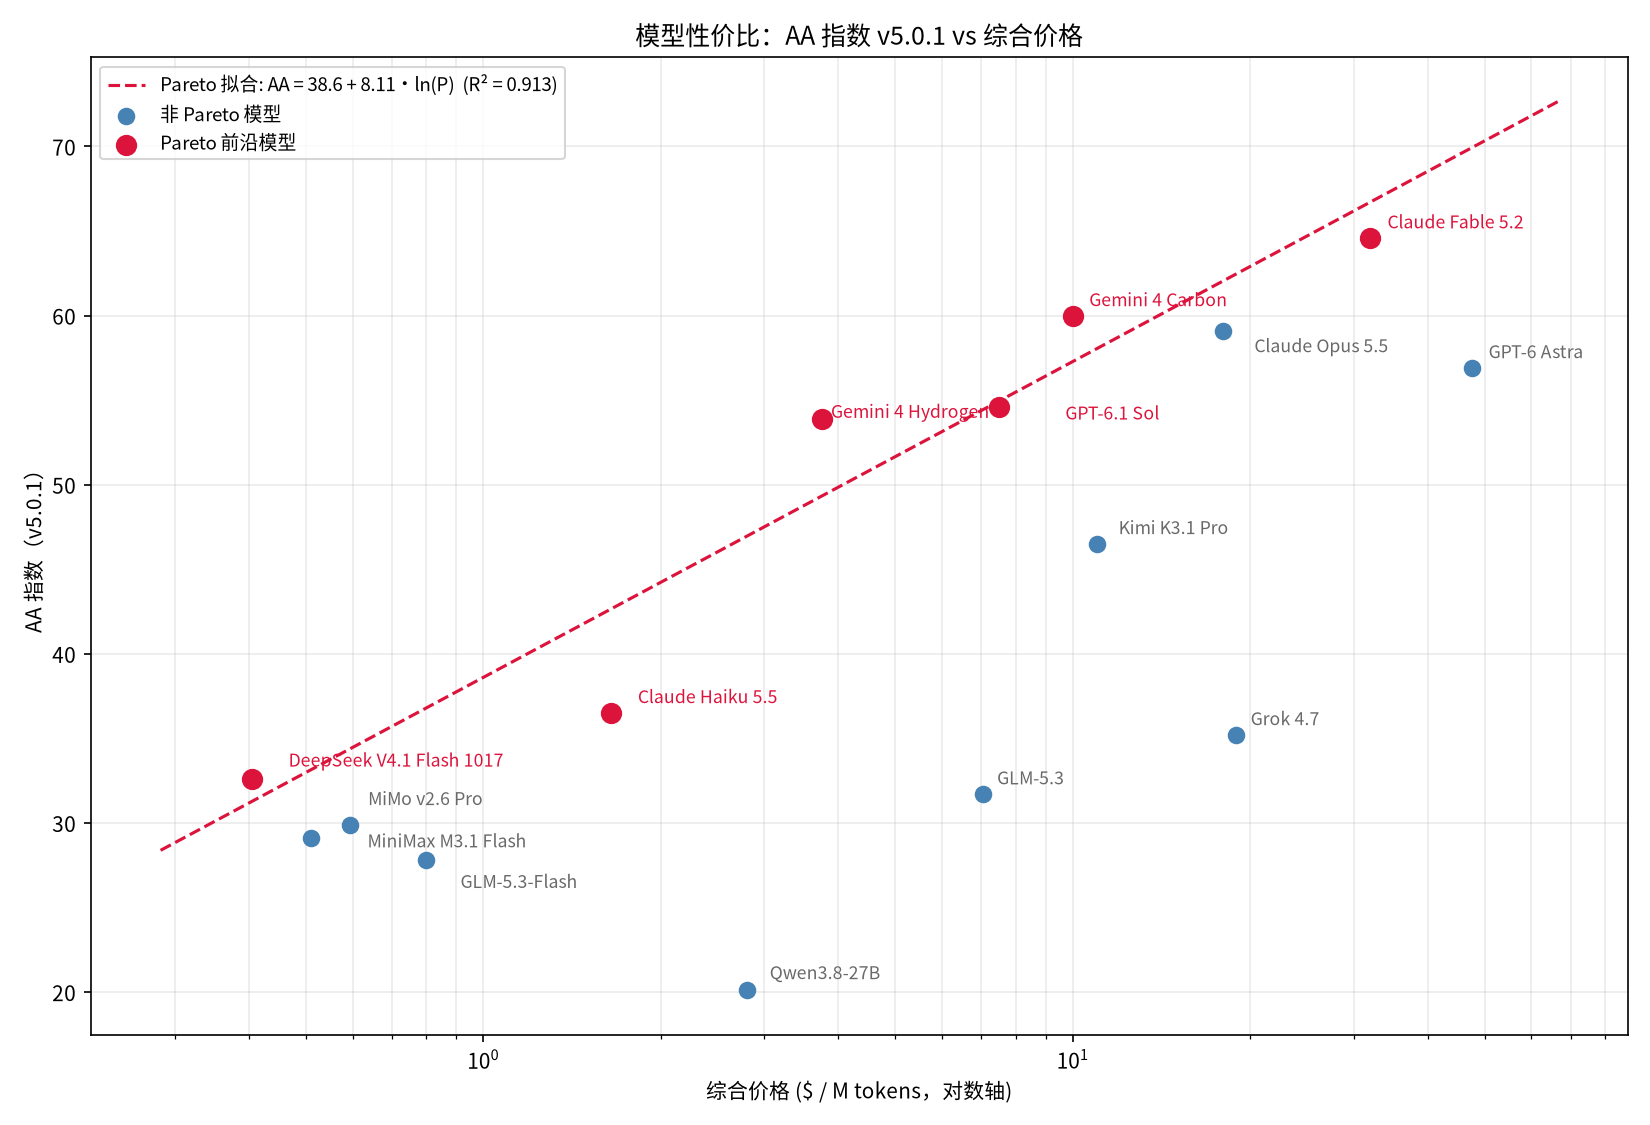
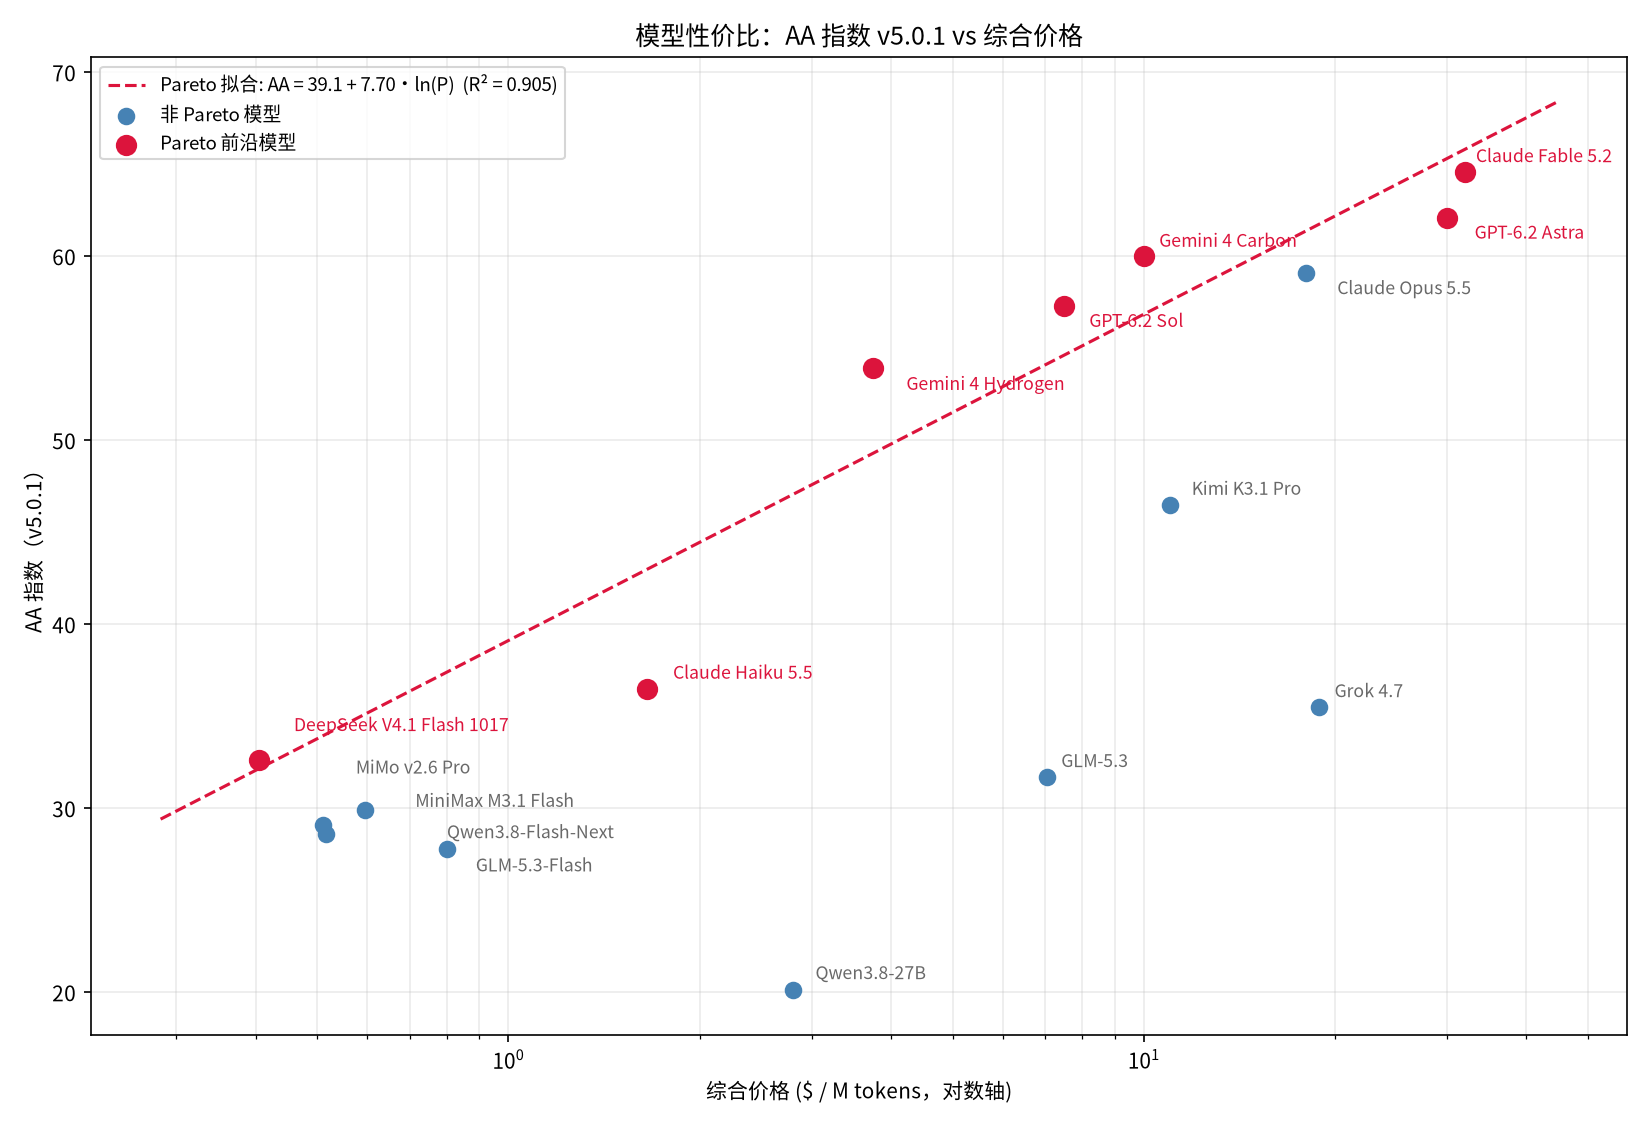
comparison: update GPT-6.2 and AA scores, summarize user feedback

diff --git a/comparison/plot_price_vs_aa.py b/comparison/plot_price_vs_aa.py
@@ -10,21 +10,21 @@ plt.rcParams["axes.unicode_minus"] = False
 # 模型: (综合价格 $/M tokens, AA Intelligence Index v5.0.1 分数)
 # 价格口径：64K/256K prompt 各 50%，缓存保留 30 分钟（见 README）。
 data = {
-    "GPT-6 Astra": (47.5, 56.9),
-    "GPT-6.1 Sol": (7.5, 54.6),
+    "GPT-6.2 Astra": (30, 62.1),
+    "GPT-6.2 Sol": (7.5, 57.3),
     "Claude Fable 5.2": (32, 64.6),
     "Claude Opus 5.5": (18, 59.1),
     "Claude Haiku 5.5": (1.65, 36.5),
     "Gemini 4 Carbon": (10, 60.0),
     "Gemini 4 Hydrogen": (3.75, 53.9),
-    "Grok 4.7": (18.9, 35.2),
+    "Grok 4.7": (18.9, 35.5),
     "Kimi K3.1 Pro": (11, 46.5),
     "MiMo v2.6 Pro": (0.594, 29.9),
     "GLM-5.3": (7.04, 31.7),
     "GLM-5.3-Flash": (0.8, 27.8),
     "DeepSeek V4.1 Flash 1017": (0.405, 32.6),
     "MiniMax M3.1 Flash": (0.51, 29.1),
-    "Qwen3.8-Flash-Next": (0.517, None),
+    "Qwen3.8-Flash-Next": (0.517, 28.6),
     "Qwen3.8-27B": (2.8, 20.1),
 }
 

diff --git a/comparison/README.md b/comparison/README.md
@@ -2,7 +2,7 @@
 
 数据收纳几类模型：
 
-1. 闭源最强大模型。两个：Gemini 4 Carbon、Claude Fable 5.2。
+1. 闭源最强大模型。两个：GPT-6.2 Astra、Claude Fable 5.2。
 2. 开源最强大模型。两个：Kimi K3.1 Pro和DeepSeek V4.1 Flash 1017。
 3. 个人低成本独立部署。一个：Qwen3.8-27B。
 4. 公司可离线部署。两个：GLM-5.3-Flash和Qwen3.8-Flash-Next。
@@ -18,8 +18,8 @@
 
 | 模型 | 发布时间 | 开放性 | 参数量 | 激活参数量 | 多模态 | 上下文 | 下载 |
 |---|---:|---:|---:|---:|---:|---:|---|
-| [GPT-6 Astra](https://developers.openai.com/api/docs/models/gpt-6-astra) | 2026-09-03 | 闭 | -- | -- | V | 1M | -- |
-| [GPT-6.1 Sol](https://developers.openai.com/api/docs/models/gpt-6.1-sol) | 2026-09-29 | 闭 | -- | -- | V | 1.05M | -- |
+| [GPT-6.2 Astra](https://developers.openai.com/api/docs/models/gpt-6.2-astra) | 2026-11-17 | 闭 | -- | -- | V | 1.05M | -- |
+| [GPT-6.2 Sol](https://developers.openai.com/api/docs/models/gpt-6.2-sol) | 2026-11-17 | 闭 | -- | -- | V | 1.05M | -- |
 | [Claude Fable 5.2](https://www.anthropic.com/claude-fable-and-mythos-5-2) | 2026-11-09 | 闭 | -- | -- | V | 1M | -- |
 | [Claude Opus 5.5](https://www.anthropic.com/claude-opus-5-5) | 2026-09-22 | 闭 | -- | -- | V | 1M | -- |
 | [Claude Haiku 5.5](https://platform.claude.com/docs/en/models/haiku-5-5/overview) | 2026-10-07 | 闭 | -- | -- | V | 1M | -- |
@@ -43,8 +43,8 @@
 
 | 模型 | 输入价格 | 输出价格 | 缓存读取 | 缓存写入 | 综合价格 |
 |---|---:|---:|---:|---:|---:|
-| GPT-6 Astra | \$10 | \$50 | \$1 | \$12.5 | \$47.5 |
-| GPT-6.1 Sol | \$2 | \$10 | \$0.1 | \$2.5 | \$7.5 |
+| GPT-6.2 Astra | \$8 | \$40 | \$0.40 | \$10 | \$30 |
+| GPT-6.2 Sol | \$2 | \$10 | \$0.10 | \$2.50 | \$7.50 |
 | Claude Fable 5.2 | \$8 | \$40 | \$0.20 | \$16 | \$32 |
 | Claude Opus 5.5 | \$4 | \$20 | \$0.2 | \$8 | \$18 |
 | Claude Haiku 5.5 | \$0.30 | \$1.50 | \$0.03 | \$0.60 | \$1.65 |
@@ -85,24 +85,24 @@
 
 | 模型 | FrontierCode 2 | Terminal-Bench 4 | AutomationBench | HLE-Diamond | CritPt v2 Hard | AA指数 v5.0.1 | 性价比 |
 |---|---:|---:|---:|---:|---:|---:|---:|
-| [GPT-6 Astra](https://artificialanalysis.ai/models/gpt-6-astra) | 42.4% | 59.1% | 68.5% | 63.8% | 70.5% | 56.9 | 74.5% |
-| [GPT-6.1 Sol](https://artificialanalysis.ai/models/gpt-6-1-sol) | 40.6% | 56.1% | 64.9% | 58.8% | 69.5% | 54.6 | **90.9%** |
-| [Claude Fable 5.2 (with fallback)](https://artificialanalysis.ai/models/claude-fable-5-2) | 48.8% | 59.6% | 76.4% | 80.2% | 76.5% | 64.6 | **88.6%** |
-| [Claude Opus 5.5 (with fallback)](https://artificialanalysis.ai/models/claude-opus-5-5) | 46.4% | 59.6% | 69.5% | 67.9% | 68.0% | 59.1 | 87.2% |
-| [Claude Haiku 5.5](https://artificialanalysis.ai/models/claude-haiku-5-5) | 34.9% | 32.8% | 35.4% | 29.6% | 43.5% | 36.5 | **78.3%** |
-| [Gemini 4 Carbon](https://artificialanalysis.ai/models/gemini-4-carbon) | 40.6% | 65.2% | 77.8% | 69.1% | 69.0% | 60.0 | **95.9%** |
+| [GPT-6.2 Astra](https://artificialanalysis.ai/models/gpt-6-2-astra) | 45.4% | 64.1% | 77.2% | 72.2% | 71.5% | 62.1 | **87.0%** |
+| [GPT-6.2 Sol](https://artificialanalysis.ai/models/gpt-6-2-sol) | 44.4% | 60.1% | 71.3% | 64.0% | 62.5% | 57.3 | **95.9%** |
+| [Claude Fable 5.2 (with fallback)](https://artificialanalysis.ai/models/claude-fable-5-2) | 48.8% | 59.6% | 76.4% | 80.2% | 76.5% | 64.6 | **89.8%** |
+| [Claude Opus 5.5 (with fallback)](https://artificialanalysis.ai/models/claude-opus-5-5) | 46.4% | 59.6% | 69.5% | 67.9% | 68.0% | 59.1 | 88.1% |
+| [Claude Haiku 5.5](https://artificialanalysis.ai/models/claude-haiku-5-5) | 34.9% | 32.8% | 35.4% | 29.6% | 43.5% | 36.5 | **77.7%** |
+| [Gemini 4 Carbon](https://artificialanalysis.ai/models/gemini-4-carbon) | 40.6% | 65.2% | 77.8% | 69.1% | 69.0% | 60.0 | **96.5%** |
 | [Gemini 4 Hydrogen](https://artificialanalysis.ai/models/gemini-4-hydrogen) | 39.0% | 53.5% | 76.1% | 58.8% | 66.0% | 53.9 | **100.0%** |
-| [Grok 4.7](https://artificialanalysis.ai/models/grok-4-7-high) | 27.8% | 24.7% | 63.5% | 23.6% | 37.0% | 35.2 | 51.6% |
-| [Kimi K3.1 Pro](https://artificialanalysis.ai/models/kimi-k3-1-pro) | 25.5% | 67.2% | 73.3% | 37.3% | 49.5% | 46.5 | 73.3% |
-| [MiMo v2.6 Pro](https://artificialanalysis.ai/models/mimo-v2-6-pro) | 24.0% | 34.8% | 58.6% | 15.2% | 34.0% | 29.9 | 79.6% |
-| [GLM-5.3](https://artificialanalysis.ai/models/glm-5-3) | 21.6% | 41.9% | 62.2% | 17.9% | 33.5% | 31.7 | 53.3% |
-| [GLM-5.3-Flash](https://artificialanalysis.ai/models/glm-5-3-flash) | 17.6% | 32.8% | 60.4% | 18.2% | 24.5% | 27.8 | 69.1% |
-| [DeepSeek V4.1 Flash 1017](https://artificialanalysis.ai/models/deepseek-v4-1-flash-1017) | 28.5% | 33.8% | 66.6% | 25.3% | 25.0% | 32.6 | **95.4%** |
-| [MiniMax M3.1 Flash](https://artificialanalysis.ai/models/minimax-m3-1-flash) | 20.8% | 25.8% | 72.5% | 28.1% | 32.5% | 29.1 | 80.4% |
-| [Qwen3.8-Flash-Next](https://artificialanalysis.ai/models/qwen3-8-flash-next) | -- | 25.3% | 55.9% | 16.3% | -- | -- | -- |
-| [Qwen3.8-27B](https://artificialanalysis.ai/models/qwen3-8-27b) | 14.9% | 5.6% | 48.2% | 15.3% | 4.0% | 20.1 | 39.2% |
+| [Grok 4.7](https://artificialanalysis.ai/models/grok-4-7) | 28.7% | 25.8% | 65.6% | 23.2% | 33.5% | 35.5 | 52.6% |
+| [Kimi K3.1 Pro](https://artificialanalysis.ai/models/kimi-k3-1-pro) | 25.5% | 67.2% | 73.3% | 37.3% | 49.5% | 46.5 | 73.9% |
+| [MiMo v2.6 Pro](https://artificialanalysis.ai/models/mimo-v2-6-pro) | 24.0% | 34.8% | 58.6% | 15.2% | 34.0% | 29.9 | 77.9% |
+| [GLM-5.3](https://artificialanalysis.ai/models/glm-5-3) | 21.6% | 41.9% | 62.2% | 17.9% | 33.5% | 31.7 | 53.5% |
+| [GLM-5.3-Flash](https://artificialanalysis.ai/models/glm-5-3-flash) | 17.6% | 32.8% | 60.4% | 18.2% | 24.5% | 27.8 | 68.0% |
+| [DeepSeek V4.1 Flash 1017](https://artificialanalysis.ai/models/deepseek-v4-1-flash-1017) | 28.5% | 33.8% | 66.6% | 25.3% | 25.0% | 32.6 | **92.7%** |
+| [MiniMax M3.1 Flash](https://artificialanalysis.ai/models/minimax-m3-1-flash) | 20.8% | 25.8% | 72.5% | 28.1% | 32.5% | 29.1 | 78.4% |
+| [Qwen3.8-Flash-Next](https://artificialanalysis.ai/models/qwen3-8-flash-next) | 27.1% | 25.3% | 55.9% | 16.3% | 24.5% | 28.6 | 76.9% |
+| [Qwen3.8-27B](https://artificialanalysis.ai/models/qwen3-8-27b) | 14.9% | 5.6% | 48.2% | 15.3% | 4.0% | 20.1 | 39.1% |
 
-- 数据核查日期：2026-11-05；AA 指数版本：v5.0.1。表中 AA 指数保留一位小数。
+- 数据核查日期：2026-11-18；AA 指数版本：v5.0.1。AA 指数保留一位小数。
 - 数据优先采用AA独立评测，其次采用官方模型卡/报告。两者均不存在时，参考采信第三方评价或官方估计值。
 - 表中成绩使用对应的最高推理档位；Claude Fable 5.2、Opus 5.5 的 AA 评测启用了默认 fallback，因此单独标注。
 
@@ -110,8 +110,7 @@
 
 - 性价比使用上文 API 价格区块的综合价格与本区块的 AA 指数计算。
 - 性价比从当前表中选出“相同或更低综合价格下不存在更高 AA 指数模型”的全部 Pareto 前沿模型，拟合得到性价比预测线。然后计算每个模型的 AA 指数相对预测指数的百分比，再对总体归一化。归一化采用所有模型性价比乘以当前模型集合中最高原始性价比的倒数，使最高分恰为 100%，其余分数均落在 0–100% 区间。性价比是当前模型集合内的相对比较，模型或价格变化后需要重新筛选 Pareto 前沿并整体重算。
-- 当前拟合得到的性价比预测线为 `预期 AA 指数 = 38.6029 + 8.1112 × ln(综合价格)`（R² = 0.913）。归一化为 `实际 AA 指数 / 预期 AA 指数 × 91.5100%`。
-- Qwen3.8-Flash-Next 缺少 AA v5.0.1 指数，性价比记为 `--`，不参与拟合与绘图。图中包含尚未公开开放的 Carbon，因此 Pareto 前沿不等同于当前可用 API 的采购建议。
+- 当前拟合得到的性价比预测线为 `预期 AA 指数 = 39.1118 + 7.7020 × ln(综合价格)`（R² = 0.905）。归一化为 `实际 AA 指数 / 预期 AA 指数 × 91.4506%`。
 - Pareto模型的性价比已经被加粗。
 - 价格-AA 关系图（横轴为对数综合价格，纵轴为 AA 指数，红点为 Pareto 前沿模型，红色虚线为 Pareto 拟合线）：
 
@@ -121,8 +120,11 @@
 
 - GPT-6 Astra的评价极度两极分化。
 - GPT-6.1 Sol明显有价格优势。但是好坏波动大，所以一直有降智传言。
+- Fable 5.2复杂遗留系统、综合分析、规划、设计和代码审查能力强。普通编码提升不明显，不一定值得额外消耗。Xhigh 到 Max 的收益被质疑。额度投诉突出。有用户采用 Fable 规划／审查，Opus 或 Sonnet 执行。
 - Opus 5.5反馈逆天，号称“全球最好用模型”，“老实干活儿的老二回来了，还当了老大”。
 - Haiku 5.5长任务、跨轮记忆都比较差，失败循环与长上下文可能吃掉价格优势。
+- Gemini 4 Carbon复杂人物和叙事细节追踪强，有用户认可其调试、复杂规划能力。启动等待长、推理消耗大，额度体验高度分化。
+- Gemini 4 Hydrogen编码、工具执行反馈较好。缺少修改前解释、部分图片误拒绝。
 - Grok被吐槽“只有NSFW是刚需”。而且这批人还在流向Qwen3.8-27B。
 - Kimi K3.1 Pro，复杂后端实现、原型和视觉设计反馈良好，部分用户认为接近 Opus。缺点是慢、工具使用弱、过度复杂化。订阅额度消耗投诉突出。
 - MiMo v2.6 Pro中评偏差。评价是“性价比高跑分漂亮，然而不能干活儿”。
